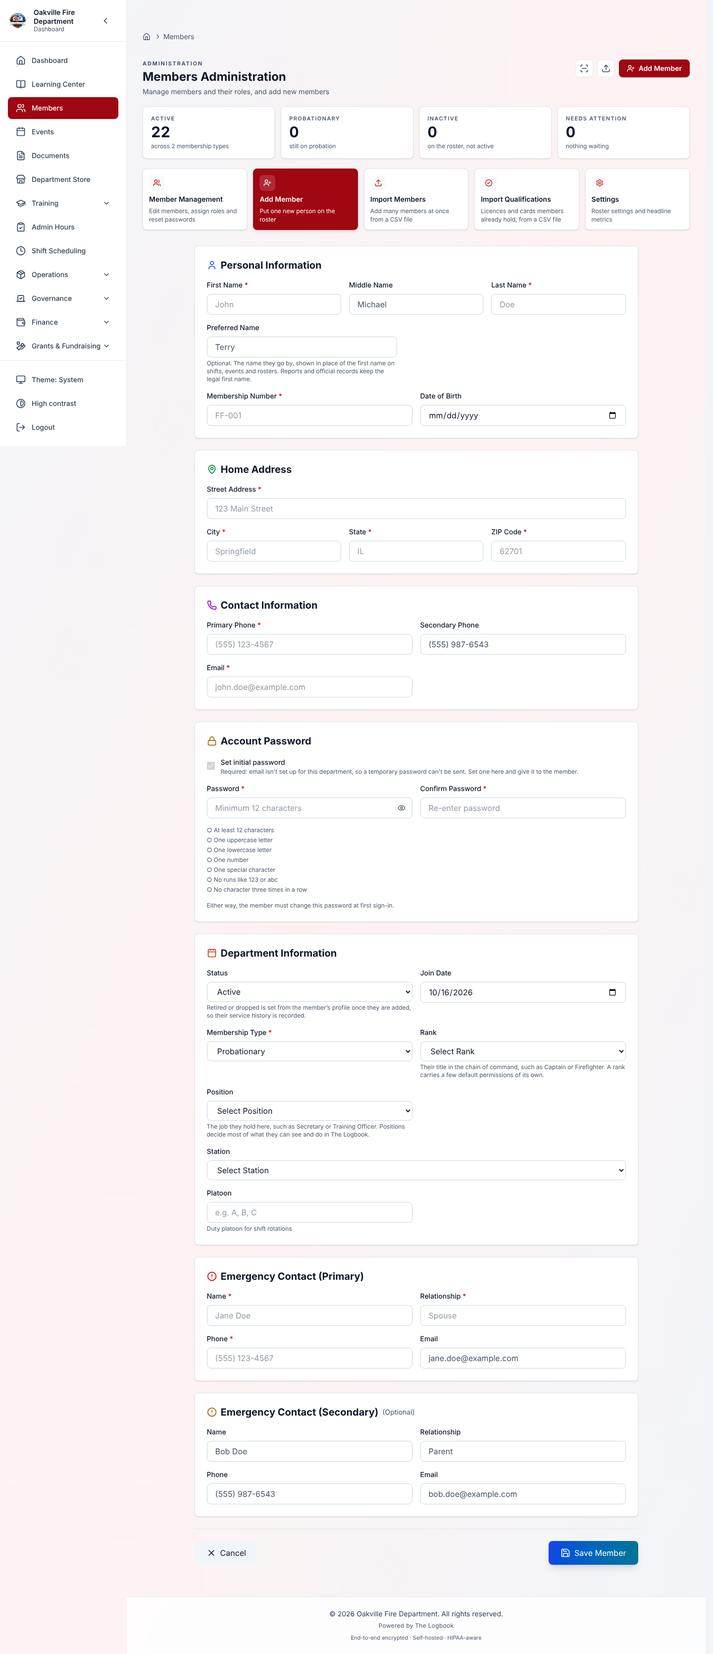
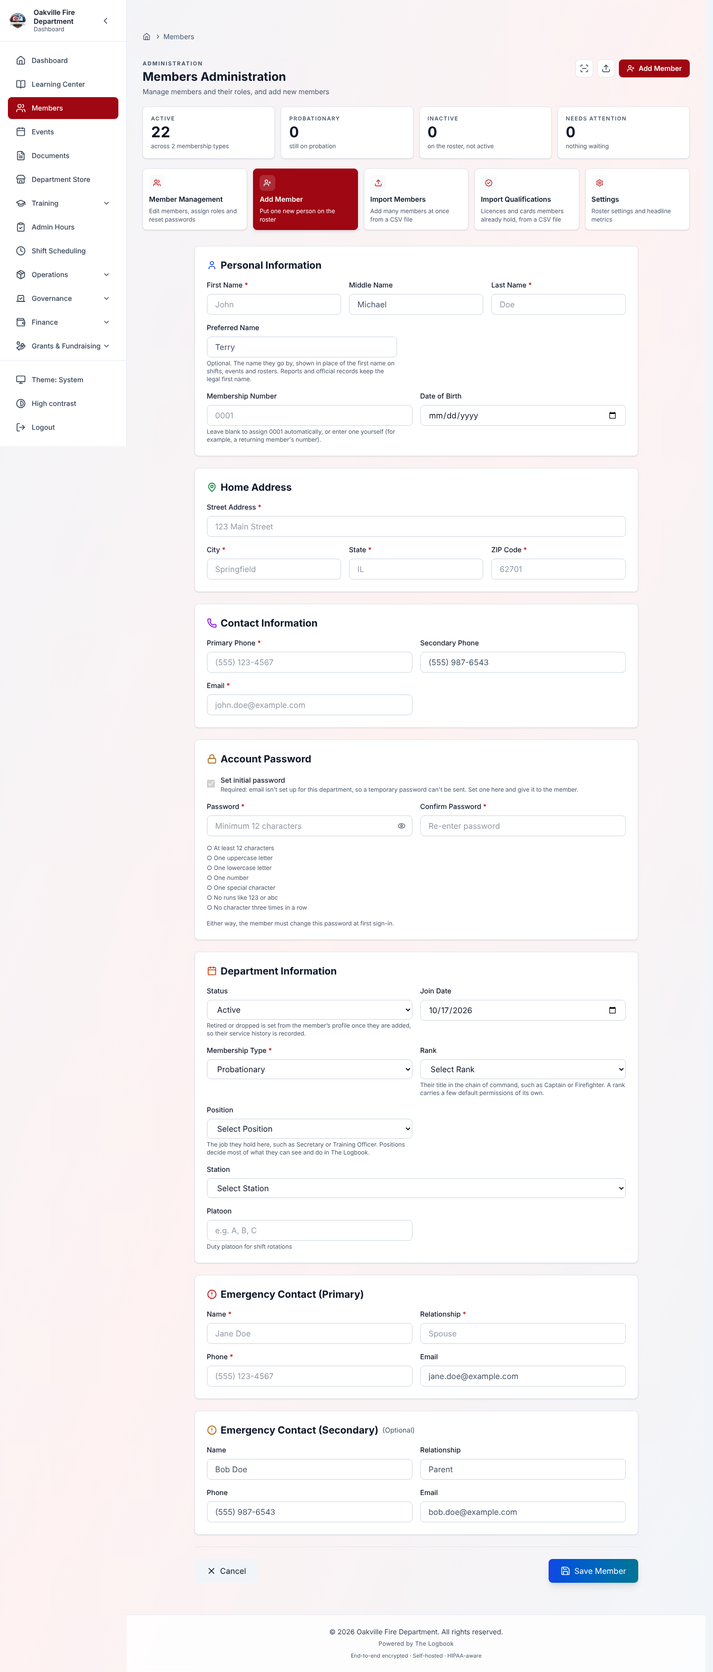
Fill guide 01's screenshot placeholders and re-shoot three images
All ten open placeholders in the membership guide are filled (01-42 to
01-52; 01-45 placed by hand beside 01-44, since one marker asked for
both frames). 01-05, 01-08 and 01-19 are re-shot to show what their
currency rows asked: a real next membership number, two edits on one
day, and Training Requirements ticked alone. 01-40's alt text names the
Rank column.

SCREENSHOT_CURRENCY.md marks the guide 01 rows these resolve as CURRENT
in place, records the 2026-10-16 captures that already satisfied their
rows, and notes the one partial fill: 01-51 leaves out Last day of
previous service, which only a member with no recorded stints is asked
and the app cannot produce for a member it dropped.

Claude-Session: https://claude.ai/code/session_01BZV8sgzbwGzZNz8nqZAgnA

diff --git a/docs/training/SCREENSHOT_CURRENCY.md b/docs/training/SCREENSHOT_CURRENCY.md
@@ -52,6 +52,38 @@ Rows elsewhere in this file that these resolve are marked **CURRENT**
 | Setup wizard step 7 (IT & Backup Contacts) and the apparatus seat chips | **NOT POSSIBLE** on the shared stack | Both need the wizard run against an empty database (`wizard-walk.mjs`), which means dropping and re-bootstrapping the demo database the other batches capture from. Placeholders left open |
 | Organization profile with the Timezone select open | **NOT POSSIBLE** as described | The timezone is a native `<select>`; an open native dropdown is drawn by the browser outside the page and never appears in a screenshot. The closed field is already in `08-02-organization-settings`. Placeholder left open |
 
+## Guide 01 re-shot or added 2026-10-17
+
+Every image the membership guide embeds was re-captured on 2026-10-16. This
+pass checked those against the rows queued for them, re-shot the three that
+still missed what was asked, and filled all ten open placeholders. Rows
+elsewhere in this file that these resolve are marked **CURRENT** 2026-10-17 in
+place; rows in tables without a disposition column (the placeholder lists, the
+Preferred Name and #2857 lists) are resolved here.
+
+| Image | Disposition | Notes |
+| ----- | ----------- | ----- |
+| `01-05-add-member-form` (re-shot) | **CURRENT** 2026-10-17 | Auto-numbering switched on for the shot and restored afterwards, so the hint reads "Leave blank to assign 0001 automatically". The pattern's own sequence starts at 0001 because the demo's numbers were typed by hand. Status (Active, Inactive, On Leave), Preferred Name and the rank and position help lines are in frame |
+| `01-08-member-audit-history` (re-shot) | **CURRENT** 2026-10-17 | `seed_guide01_member_states` gives Callum Frazier a station edit and a platoon edit on the same day, each saving the value he already holds, so two entries share a date with different times beside the earlier rank change |
+| `01-19-create-waiver` (re-shot) | **CURRENT** 2026-10-17 | Only Training Requirements ticked, with "Creates a standalone training waiver without a leave of absence" |
+| `01-01`, `01-06`, `01-07`, `01-10`, `01-11`, `01-22`, `01-23`, `01-26`, `01-29`, `01-33`, `01-40`, `01-41` | **CURRENT** 2026-10-17 (checked) | The 2026-10-16 captures already show what their rows ask: Rank and Member # columns, Advance/Hold/Reject Selected (three applicants ticked, not two), both Applies To boxes ticked, Active badges on kanban cards, My Account, "Send welcome emails now" with the Unavailable note. `01-40`'s alt text now names the Rank column. `01-05` and `01-07` show Preferred Name |
+| `01-42-archived-member-row` | **CURRENT** 2026-10-17 | New. The Members table on Archived with the Reactivate icon |
+| `01-43-print-id-cards` | **CURRENT** 2026-10-17 | New. Front and back is picked (never saved), because Save as department layout replaces the "Department layout" note only when the choices differ from the saved layout |
+| `01-44-member-id-card`, `01-45-reissue-badge-confirm` | **CURRENT** 2026-10-17 | New. Nadia Belhaj's card; the confirmation is closed with Keep current badge. One placeholder asked for both, so `01-45` was placed by hand |
+| `01-46-add-member-password-no-email` | **CURRENT** 2026-10-17 | New. The demo backend has no email configured, so this is the live page |
+| `01-47-membership-id-fiscal-year` | **CURRENT** 2026-10-17 | New. Same state as `08-88`, written through the API and restored afterwards |
+| `01-48-reset-password-rules` | **CURRENT** 2026-10-17 | New. "Abcdefgh1234!" typed into the masked field; never submitted |
+| `01-49-anonymize-member` | **CURRENT** 2026-10-17 | New. Never typed or confirmed |
+| `01-50-status-page-stage` | **CURRENT** 2026-10-17 | New. Add Stage with Enable Status Page and a welcome line; never saved |
+| `01-51-rejoin-status-dialog` | **CURRENT** 2026-10-17, in part | New. Earlier service (department default marked) and Return date. **Last day of previous service** is not in frame: it is asked only for a member with no recorded stints, and a member dropped through the app always has one. Clearing it leaves the estimate reading the day of the drop, which no real member shows, so that state was not manufactured. Never submitted |
+| `01-52-service-history-restart` | **CURRENT** 2026-10-17 | New. Credited and prior service tiles, the 2014–2019 stint marked Dropped (voluntary) and Not counted, and the current stint |
+| `01-02-member-profile`, `01-27-stage-type-picker`, `01-28-stage-email-config` | **Not checked** | Their rows stay open |
+
+The former members in `01-42`, `01-49`, `01-51` and `01-52` exist only for one
+shot. Each is created, taken through the real drop, archive and rejoin
+endpoints, pictured, and permanently deleted afterwards, so the roster count
+every other guide pictures stays at 22.
+
 ## Queued by the October 15 – 16 documentation pass
 
 Nothing was captured by this pass. The prospective-members set (`15-*`,
@@ -462,14 +494,14 @@ unchanged.
 
 | Image | Disposition | Why |
 | ----- | ----------- | --- |
-| `01-01-member-directory.png` | **REPLACE** | The table gained a **Rank** column between the name and **Member #**. Re-shoot as an officer so **Member #** is present, with at least one member whose rank is set |
+| `01-01-member-directory.png` | **CURRENT** 2026-10-17 (checked) | The table gained a **Rank** column between the name and **Member #**. Re-shoot as an officer so **Member #** is present, with at least one member whose rank is set |
 | `01-02-member-profile.png` | **REPLACE** | Assigned Inventory is absent for a viewer without permission to manage equipment. Caption the capturing account's grants — the page differs by viewer |
-| `01-05-add-member-form.png` | **REPLACE** | One **Membership Number** field whose hint reads "Leave blank to assign … automatically" (the separate Membership ID box is gone); **Preferred Contact** is gone and **Status** offers Active, Inactive and On Leave; **Rank** and **Position** carry help lines; with **Set initial password** ticked a rules checklist sits under the password fields. Shoot with auto-numbering on |
-| `01-08-member-audit-history.png` | **REPLACE** | Each entry shows the time beside the date. Re-shoot filtered to profile updates, on a member with two edits on the same day |
-| `01-40-member-directory-member.png` | **CHECK** | Alt text says "name, member number and status only"; the member view also has a **Rank** column, and **Member #** is hidden until someone in the department is numbered |
-| `01-26-print-applicant-badges.png` | **REPLACE** | Bulk buttons read **Advance Selected**, **Hold Selected**, **Reject Selected**. Re-shoot the bar with two applicants selected (alt text still says "Advance All") |
-| `01-11-create-waiver.png` | **REPLACE** | **Applies To** has two checkboxes — **Training Requirements** and **Meeting Attendance & Shift Requirements**. Re-shoot with both ticked, so the line under them reads "Creates a leave of absence that automatically generates a training waiver" |
-| `01-19-create-waiver.png` | **REPLACE** | Same change as `01-11`. Re-shoot with only **Training Requirements** ticked, showing "Creates a standalone training waiver without a leave of absence" |
+| `01-05-add-member-form.png` | **CURRENT** 2026-10-17 (re-shot) | One **Membership Number** field whose hint reads "Leave blank to assign … automatically" (the separate Membership ID box is gone); **Preferred Contact** is gone and **Status** offers Active, Inactive and On Leave; **Rank** and **Position** carry help lines; with **Set initial password** ticked a rules checklist sits under the password fields. Shoot with auto-numbering on |
+| `01-08-member-audit-history.png` | **CURRENT** 2026-10-17 (re-shot) | Each entry shows the time beside the date. Re-shoot filtered to profile updates, on a member with two edits on the same day |
+| `01-40-member-directory-member.png` | **CURRENT** 2026-10-17 (alt text reworded) | Alt text says "name, member number and status only"; the member view also has a **Rank** column, and **Member #** is hidden until someone in the department is numbered |
+| `01-26-print-applicant-badges.png` | **CURRENT** 2026-10-17 (checked) | Bulk buttons read **Advance Selected**, **Hold Selected**, **Reject Selected**. Re-shoot the bar with two applicants selected (alt text still says "Advance All") |
+| `01-11-create-waiver.png` | **CURRENT** 2026-10-17 (checked) | **Applies To** has two checkboxes — **Training Requirements** and **Meeting Attendance & Shift Requirements**. Re-shoot with both ticked, so the line under them reads "Creates a leave of absence that automatically generates a training waiver" |
+| `01-19-create-waiver.png` | **CURRENT** 2026-10-17 (re-shot) | Same change as `01-11`. Re-shoot with only **Training Requirements** ticked, showing "Creates a standalone training waiver without a leave of absence" |
 | `19-37-member-id-cards.png` | **CHECK** | The frame shows a card in a "revoked" state, but the ID Cards panel offers no Revoke action (Suspend, Lost, Reactivate, delete). Confirm what the frame shows, or re-shoot with a suspended card |
 | Applicant conversion dialog; administrative member's ID card | **CHECK** | Both now show **Member class** (the conversion dialog asks for **Member class** and **Starting status**; an administrative member's card shows **Member Class** where others show **Rank**) |
 
@@ -669,7 +701,7 @@ client secret; use a throwaway demo client.
 | `03-*` swap request dialog and Requests tab | **CHECK** | Open swaps are picked up, not officer-approved |
 | `03-*` close-out wizard step 2 | **REPLACE** | Gained the shared-calls picker |
 | `14-*` Results tab, Cast Vote tab and Send Ballot Emails shots | **REPLACE** | One ballot model; results released on close; revised mark |
-| `01-*` Members page as a non-manager | **CHECK** | Directory hides archived members and opens on Active |
+| `01-*` Members page as a non-manager | **CURRENT** 2026-10-17 (checked `01-40`) | Directory hides archived members and opens on Active |
 | `02-*` Compliance Matrix, Shift Compliance and program enrollment progress | **CHECK** | Shift counts and linked requirements now read shift attendance / live compliance |
 | `13-*` Add Record dialog | **REPLACE** | Member/Prospect picker |
 
@@ -721,7 +753,7 @@ grades. Never capture a real badge code; use a throwaway demo member.
 | `03-14-scheduling-reports` | **REPLACE** | Shift Compliance cards are **Requirement Checks**, **Checks Met**, **Checks Not Met** (were Total Members, Compliant, Non-Compliant) |
 | `03-67-swap-request-dialog`, `03-11-swap-requests-tab` | **REPLACE** | Exchange With a Member picker; exchange cards name the other member |
 | `03-60-dashboard-my-shifts`, `00-04-dashboard-overview` | **CHECK** | Open slots the member cannot take read "Not eligible" instead of Sign Up |
-| `01-23-print-member-badges`, `19-37-member-id-cards` | **CHECK** | Badge now encodes the server badge code; Print Badges needs `members.manage` or `members.manage_id_cards` |
+| `01-23-print-member-badges`, `19-37-member-id-cards` | **CHECK** (`01-23` **CURRENT** 2026-10-17: the selection bar, no badge in frame; `19-37` not checked) | Badge now encodes the server badge code; Print Badges needs `members.manage` or `members.manage_id_cards` |
 | `15-10-pipeline-settings`, `15-14-applicant-drawer-overview` | **CHECK** | Automatic Transfer card; checklist items as tickboxes in the drawer |
 | `08-11-error-monitor` | **CHECK** | Rows from scheduled tasks carry the source **Scheduled task** |
 | `05-01-inventory-items`, `05-25-admin-hub`, `05-60-admin-hub-groups` | **REPLACE at phone width** | Below 640px the nine Items filters sit behind a **Filters** toggle; eight admin pages lost their doubled side padding; hub metric labels wrap to two lines |
@@ -870,18 +902,18 @@ A second reading of PRs #2651–#2846 checked each guide's screens against the c
 | `00-19-change-password` | **REPLACE** (also queued below) | Shot 2026-09-25; the Password section's checklist is now the seven-rule list (12 characters, no runs, no triple repeats) shown before typing, and the page title reads My Account (was User Settings) | #2759, #2807 |
 | `00-20-member-dashboard` | **REPLACE** | Shot 2026-09-25; Log Training subtitle changed; Next 30 Days event rows past their RSVP deadline show Open instead of Going / Can't; My Updates may stack | #2807, #2828, #2775 |
 | `00-22-notification-card-expanded` | **REPLACE** | Shot 2026-09-25 full-page; inbox subtitle changed to 'Your in-app notifications. Pinned ones stay at the top.' and same-category rows now stack. The manifest prepare step clicks the first aria-expanded=false button in the first div.card containing 'New Shift Assignment', which may now be a stack header — check the prepare step before re-capturing | #2791, #2775 |
-| `01-01-member-directory` | **REPLACE** (also queued below) | Closed status select displays its selected option, now 'All Statuses' (was 'All Status'); privacy notice reworded | #2784, #2669 |
-| `01-05-add-member-form` | **REPLACE** (also queued below) | Status and Preferred Contact selects removed, separate Membership ID override box removed, Membership Number loses its asterisk and shows next-number placeholder/hint under auto-generation, Set initial password hint changed, subtitle 'Add someone to the roster' | #2759, #2819, #2823, #2751, #2784 |
-| `01-06-import-members` | **REPLACE** | Subtitle now 'Add many members at once from a spreadsheet' and drop zone 'Choose a CSV file to upload' | #2784 |
-| `01-07-admin-member-edit` | **REPLACE** (also queued below) | Back link now 'Back to Members Administration', email help text and compliance-exemption helper reworded | #2784, #2764 |
-| `01-08-member-audit-history` | **REPLACE** (also queued below) | Entries now show date and time; also did not run in the 2026-09-25 sweep (filter rendered no events) — reseed audit events first | #2764, #2728 |
-| `01-11-create-waiver` | **REPLACE** (also queued below) | Same Create Waiver tab as 01-19: Applies To changed to two boxes, subtitle changed, member picker shows rank names | #2765, #2784 |
-| `01-19-create-waiver` | **REPLACE** (also queued below) | Applies To now shows two checkboxes (Training Requirements; Meeting Attendance & Shift Requirements) instead of three; page subtitle changed | #2765, #2784 |
-| `01-22-member-lifecycle` | **REPLACE** | Member Management tab heading changed to 'Member Management' with new subtitle; filter 'All Statuses'; hub description changed | #2784 |
-| `01-26-print-applicant-badges` | **REPLACE** (also queued below) | Bulk bar labels are now Advance Selected / Hold Selected / Reject Selected; manifest alt (manifest.mjs ~5838) still says 'Advance All' — the guide's alt was updated to 'Advance Selected' | #2783, #2653 |
-| `01-33-import-review-rejected-rows` | **REPLACE** | Welcome-email option now 'Send welcome emails now' with temporary-password wording (and an Unavailable note when email is off); button pluralisation | #2751, #2759 |
-| `01-40-member-directory-member` | **REPLACE** (also queued below) | As an ordinary member with emails hidden the search placeholder now reads 'Search by name or membership number...' | #2759 |
-| `01-41-profile-visibility` | **REPLACE** | Full-page /account: title now 'My Account' and Security sidebar description changed | #2807, #2759 |
+| `01-01-member-directory` | **CURRENT** 2026-10-17 (checked) | Closed status select displays its selected option, now 'All Statuses' (was 'All Status'); privacy notice reworded | #2784, #2669 |
+| `01-05-add-member-form` | **CURRENT** 2026-10-17 (re-shot) | Status and Preferred Contact selects removed, separate Membership ID override box removed, Membership Number loses its asterisk and shows next-number placeholder/hint under auto-generation, Set initial password hint changed, subtitle 'Add someone to the roster' | #2759, #2819, #2823, #2751, #2784 |
+| `01-06-import-members` | **CURRENT** 2026-10-17 (checked) | Subtitle now 'Add many members at once from a spreadsheet' and drop zone 'Choose a CSV file to upload' | #2784 |
+| `01-07-admin-member-edit` | **CURRENT** 2026-10-17 (checked) | Back link now 'Back to Members Administration', email help text and compliance-exemption helper reworded | #2784, #2764 |
+| `01-08-member-audit-history` | **CURRENT** 2026-10-17 (re-shot) | Entries now show date and time; also did not run in the 2026-09-25 sweep (filter rendered no events) — reseed audit events first | #2764, #2728 |
+| `01-11-create-waiver` | **CURRENT** 2026-10-17 (checked) | Same Create Waiver tab as 01-19: Applies To changed to two boxes, subtitle changed, member picker shows rank names | #2765, #2784 |
+| `01-19-create-waiver` | **CURRENT** 2026-10-17 (re-shot) | Applies To now shows two checkboxes (Training Requirements; Meeting Attendance & Shift Requirements) instead of three; page subtitle changed | #2765, #2784 |
+| `01-22-member-lifecycle` | **CURRENT** 2026-10-17 (checked) | Member Management tab heading changed to 'Member Management' with new subtitle; filter 'All Statuses'; hub description changed | #2784 |
+| `01-26-print-applicant-badges` | **CURRENT** 2026-10-17 (checked) | Bulk bar labels are now Advance Selected / Hold Selected / Reject Selected; manifest alt (manifest.mjs ~5838) still says 'Advance All' — the guide's alt was updated to 'Advance Selected' | #2783, #2653 |
+| `01-33-import-review-rejected-rows` | **CURRENT** 2026-10-17 (checked) | Welcome-email option now 'Send welcome emails now' with temporary-password wording (and an Unavailable note when email is off); button pluralisation | #2751, #2759 |
+| `01-40-member-directory-member` | **CURRENT** 2026-10-17 (checked) | As an ordinary member with emails hidden the search placeholder now reads 'Search by name or membership number...' | #2759 |
+| `01-41-profile-visibility` | **CURRENT** 2026-10-17 (checked) | Full-page /account: title now 'My Account' and Security sidebar description changed | #2807, #2759 |
 | `02-01-my-training` | **REPLACE** (also queued below) | The subtitle was rewritten and the 'Requirements' stat is now 'Required Training' with an 'X of Y requirements met' hint. The Pipeline Progress card now carries the program name. | #2827, #2788 |
 | `02-100-checklist-steps-editor` | **REPLACE** | The manifest prepare clicks the button named 'Edit requirement', which is now 'Edit <requirement name>', so re-capture times out until the selector is updated. The pictured UI is unchanged. | #2788 |
 | `02-17-officer-dashboard` | **REPLACE** (also queued below) | Subtitle changed to 'Compliance, expiring certifications, hours, and what needs your attention'. | #2777 |
@@ -1001,10 +1033,10 @@ A second reading of PRs #2651–#2846 checked each guide's screens against the c
 | `00-23-login-two-factor` | **CHECK** | Only the recovery-code placeholder changed, visible after 'Use a recovery code'; the pictured 6-digit state is likely unchanged | |
 | `00-26-sidebar-officer-operations` | **CHECK** | Tall viewport, probably no overflow; confirm no scroll pill | |
 | `01-02-member-profile` | **CHECK** | Recaptured 2026-09-25 with Service History card; inventory panel gained empty state 'No equipment is assigned to this member.' (#2784) | |
-| `01-10-prospective-pipeline` | **CHECK** | Kanban card status badges now read 'Active'/'On Hold' instead of raw values | |
+| `01-10-prospective-pipeline` | **CURRENT** 2026-10-17 (checked) | Kanban card status badges now read 'Active'/'On Hold' instead of raw values | |
 | `01-27-stage-type-picker` | **CHECK** | Manual Approval tile description now 'A pipeline manager approves the applicant before they advance.' — visible if the tile text is in frame | |
 | `01-28-stage-email-config` | **CHECK** | Application Tracker Link hint reworded and email preview restyled; probably invisible if the section is unticked and Show Preview collapsed | |
-| `01-29-status-change-modal` | **CHECK** | Archived removed from New Status and fields labelled; captured closed on an active member so likely unchanged | |
+| `01-29-status-change-modal` | **CURRENT** 2026-10-17 (checked) | Archived removed from New Status and fields labelled; captured closed on an active member so likely unchanged | |
 | `02-04-course-library` | **CHECK** | Subtitle now 'The classes your department runs or recognizes (N courses)'. | |
 | `02-102-shift-report-crew-form` | **CHECK** | Reached via view=create; the strip no longer carries a 'New' segment. | |
 | `02-106-course-library-member` | **CHECK** | Same Course Library subtitle change. | |
@@ -1300,13 +1332,13 @@ and this file cannot disagree.
 
 | Disposition | Image | What the new frame must show |
 | --- | --- | --- |
-| **REPLACE** | `01-01-member-directory.png` | The table gained a **Rank** column between the name and **Member #** (2026-09-30). Re-shoot as an officer so **Member #** is present, with at least one member whose rank is set. |
-| **REPLACE** | `01-05-add-member-form.png` | Four visible changes since the frame was taken: one **Membership Number** field whose hint reads "Leave blank to assign … automatically" (the separate Membership ID override box is gone); the **Status** and **Preferred Contact** controls are gone from Department Information; **Rank** and **Position** each carry a help line under the dropdown; and with **Set initial password** ticked, a password-rules checklist sits under the two password fields. Shoot on a department with auto-numbering on, so the hint shows a real next number. |
-| **REPLACE** | `01-08-member-audit-history.png` | Each entry now shows the time beside the date (2026-09-28). Re-shoot filtered to profile updates, on a member with at least two edits on the same day so the times differ. |
-| **REPLACE** | `01-26-print-applicant-badges.png` | The bulk buttons were renamed on 2026-09-29 — **Advance Selected**, **Hold Selected**, **Reject Selected** (they act on the selection, not on everyone). Re-shoot the same bar with two applicants selected. |
-| **REPLACE** | `01-11-create-waiver.png` | **Applies To** now holds two checkboxes — **Training Requirements** and **Meeting Attendance & Shift Requirements** — where it held three (2026-09-28). Re-shoot the Create Waiver tab with both ticked, so the line under them reads "Creates a leave of absence that automatically generates a training waiver". |
-| **REPLACE** | `01-19-create-waiver.png` | Same change as `01-11`: **Applies To** has two checkboxes, not three. Re-shoot with only **Training Requirements** ticked so the frame differs from `01-11` and shows "Creates a standalone training waiver without a leave of absence". |
-| **NEW** | — | Members Admin → Settings → Membership IDs with numbering and auto-generation on → the **Year and number** preset applied: Number pattern `{YYYY}-{SEQ}`, Minimum digits 3, **Restart the count each year** on, **The year follows** set to **Our fiscal year** starting in July and named by **The year it ends in**, and the line "The next member will be numbered 2027-001." with "Next: 2027-001" in the panel header. |
+| **CURRENT** 2026-10-17 (checked) | `01-01-member-directory.png` | The table gained a **Rank** column between the name and **Member #** (2026-09-30). Re-shoot as an officer so **Member #** is present, with at least one member whose rank is set. |
+| **CURRENT** 2026-10-17 (re-shot) | `01-05-add-member-form.png` | Four visible changes since the frame was taken: one **Membership Number** field whose hint reads "Leave blank to assign … automatically" (the separate Membership ID override box is gone); the **Status** and **Preferred Contact** controls are gone from Department Information; **Rank** and **Position** each carry a help line under the dropdown; and with **Set initial password** ticked, a password-rules checklist sits under the two password fields. Shoot on a department with auto-numbering on, so the hint shows a real next number. |
+| **CURRENT** 2026-10-17 (re-shot) | `01-08-member-audit-history.png` | Each entry now shows the time beside the date (2026-09-28). Re-shoot filtered to profile updates, on a member with at least two edits on the same day so the times differ. |
+| **CURRENT** 2026-10-17 (checked) | `01-26-print-applicant-badges.png` | The bulk buttons were renamed on 2026-09-29 — **Advance Selected**, **Hold Selected**, **Reject Selected** (they act on the selection, not on everyone). Re-shoot the same bar with two applicants selected. |
+| **CURRENT** 2026-10-17 (checked) | `01-11-create-waiver.png` | **Applies To** now holds two checkboxes — **Training Requirements** and **Meeting Attendance & Shift Requirements** — where it held three (2026-09-28). Re-shoot the Create Waiver tab with both ticked, so the line under them reads "Creates a leave of absence that automatically generates a training waiver". |
+| **CURRENT** 2026-10-17 (re-shot) | `01-19-create-waiver.png` | Same change as `01-11`: **Applies To** has two checkboxes, not three. Re-shoot with only **Training Requirements** ticked so the frame differs from `01-11` and shows "Creates a standalone training waiver without a leave of absence". |
+| **CURRENT** 2026-10-17 as `01-47` | — | Members Admin → Settings → Membership IDs with numbering and auto-generation on → the **Year and number** preset applied: Number pattern `{YYYY}-{SEQ}`, Minimum digits 3, **Restart the count each year** on, **The year follows** set to **Our fiscal year** starting in July and named by **The year it ends in**, and the line "The next member will be numbered 2027-001." with "Next: 2027-001" in the panel header. |
 
 ### [02 — training](./02-training.md)
 

diff --git a/docs/training/01-membership.md b/docs/training/01-membership.md
@@ -101,11 +101,9 @@ includes archived members, because those are the records officers look after.
 
 ![Member directory listing members with their status and contact columns](./images/01-01-member-directory.png)
 
-![The Member Directory as an ordinary member: name, member number and status only, with no usernames, no hire-date column, no Actions column and no selection checkboxes](./images/01-40-member-directory-member.png)
+![The Member Directory as an ordinary member: name, rank, member number and status only, with no usernames, no hire-date column, no Actions column and no selection checkboxes](./images/01-40-member-directory-member.png)
 
-<!-- Screenshot needed:
-_[As an administrator (members.manage) at /members on a desktop width: the Members table with the status filter set to Archived, showing at least one archived member's row with the green Reactivate icon beside Edit and Delete in Actions. Needs an archived member in the demo seed. Do not open the Reactivate dialog.]_
--->
+![The Members table filtered to Archived: a former member's row with the green Reactivate icon beside Edit and Delete](./images/01-42-archived-member-row.png)
 
 **Member statuses:**
 
@@ -235,9 +233,7 @@ Organization settings.
 Print one **Test card** first to check the alignment. Cards print in black
 only, so they look the same on a black-only ribbon as on a colour one.
 
-<!-- Screenshot needed:
-_[Administrator (members.manage) at /members/print-id-cards with two demo members selected: the Orientation, Sides and Code options, the Save as department layout button, and the "Accept old badges" switch at the bottom. Check the route in the page before capturing.]_
--->
+![Print ID Cards for two members with Front and back chosen: the Orientation, Sides and Code choices, Test card and Save as department layout, the duplex printing note, and the Accept old badges switch at the bottom](./images/01-43-print-id-cards.png)
 
 ### Badge Codes
 
@@ -270,9 +266,9 @@ codes scan.
 Inventory checkout always refuses a member whose account is not active,
 whichever badge they show.
 
-<!-- Screenshot needed:
-_[Administrator at /members/<demo member id>/id-card: the badge with its QR code, showing the membership number as text, and the "Reissue badge" button; a second frame with the "Reissue this badge?" confirmation open. Demo member only; do not confirm.]_
--->
+![A member's digital ID card: membership number as text, the badge code under its barcode, the QR code, and the Print ID Card and Reissue badge buttons](./images/01-44-member-id-card.png)
+
+![The Reissue this badge? confirmation: every printed badge and the phone card stop scanning, with Keep current badge and Reissue badge](./images/01-45-reissue-badge-confirm.png)
 
 ---
 
@@ -519,9 +515,7 @@ department, so a temporary password can't be sent. Set one here and give it
 to the member." The Logbook also refuses any new account that asks for a
 welcome email while email cannot be sent.
 
-<!-- Screenshot needed:
-_[As an administrator (users.create + members.manage) on an install with email not configured, at /members/admin?tab=add: the Account Password block with Set initial password ticked and disabled and the "Required: email isn't set up for this department…" hint visible. Leave the password fields empty; do not capture any typed password.]_
--->
+![Add Member's Account Password block on a department without email: Set initial password ticked and locked, the note saying why, and the empty password fields with their rules](./images/01-46-add-member-password-no-email.png)
 
 ### The Membership Number on Add Member
 
@@ -639,9 +633,7 @@ be longer than 50 characters is refused straight away. If you take the year
 out of a pattern, the yearly restart turns off in the same save. If nobody
 changes these settings, numbers look like `FD-0001`.
 
-<!-- Screenshot needed:
-_[Members Admin → Settings → Membership IDs with numbering and auto-generation on → the **Year and number** preset applied: Number pattern `{YYYY}-{SEQ}`, Minimum digits 3, **Restart the count each year** on, **The year follows** set to **Our fiscal year** starting in July and named by **The year it ends in**, and the line "The next member will be numbered 2027-001." with "Next: 2027-001" in the panel header.]_
--->
+![Membership ID Number settings with the Year and number preset: pattern {YYYY}-{SEQ}, three digits, the count restarting each year on a fiscal year from July named by the year it ends in, and the next member numbered 2027-001](./images/01-47-membership-id-fiscal-year.png)
 
 #### Numbers Are Never Reissued
 
@@ -921,9 +913,7 @@ name or relationship is pointed out on the page before you save.
 > access every member needs, so it can only be removed from an archived
 > member."
 
-<!-- Screenshot needed:
-_[As an administrator (members.manage) at /members/admin, Member Management tab: a demo member's Reset Password dialog with a weak password typed (for example Abcdefgh1234!) so the Password rules list shows "No runs like 123 or abc" unmet. Never submit, and never capture a real password.]_
--->
+![Reset Password for a member with a weak password typed (masked): the Password rules list ticks the length and character rules and leaves No runs like 123 or abc unmet](./images/01-48-reset-password-rules.png)
 
 ---
 
@@ -1065,9 +1055,7 @@ What is kept stays linked to a placeholder named "Former Member".
 > roster. Like a deactivated member, they no longer appear anywhere in the app
 > and cannot be reactivated.
 
-<!-- Screenshot needed:
-_[As an administrator (members.manage) at /members/:userId for a Dropped or Archived demo member: the Anonymize Member dialog showing the warning sentence, the red Removed panel, the Kept panel with the "Former Member" note, the empty "Type <name> to confirm" field and the disabled Anonymize button. Clip to the dialog. Never type the name or confirm — the action is irreversible and would remove the demo member. Needs a dropped or archived member in the seed.]_
--->
+![The Anonymize Member dialog for an archived former member: the warning, what is removed, what is kept under Former Member, and the typed confirmation with Anonymize still disabled](./images/01-49-anonymize-member.png)
 
 ## Prospective Members Pipeline
 
@@ -1417,9 +1405,7 @@ you might show the tracker only after someone passes their interview.
 | The stage is marked as the final stage                                        | It never completes itself, because completing the final stage is the department's approval                                                                             |
 | The applicant started on the stage, was placed on it, or was moved back to it | The on/off setting still applies, but no link email is sent and the stage waits for you to complete it. Only arriving by finishing the stage before it sends the email |
 
-<!-- Screenshot needed:
-_[As a Membership Coordinator (prospective_members.manage) at /prospective-members/settings: a pipeline selected and Add Stage open with the Enable Status Page tile chosen, showing the "Enables the public status page" panel with its override sentence, "Enable public status page at this stage" ticked, and "Message in the link email (optional)" filled with a sample welcome line.]_
--->
+![Add Stage with Enable Status Page chosen: the panel saying it enables the public status page and overrides the pipeline setting, Enable public status page at this stage ticked, and a welcome line in the link email message](./images/01-50-status-page-stage.png)
 
 ### Pipeline Configuration
 
@@ -1721,9 +1707,7 @@ See [Former Members Who Rejoin](#former-members-who-rejoin).
 
 ![The Change Member Status dialog with a drop status selected and its property-return note](./images/01-29-status-change-modal.png)
 
-<!-- Screenshot needed:
-_[As an administrator (members.manage) at /members/:userId for a Dropped (Voluntary) demo member: the Change Member Status dialog with Active selected, showing the Earlier service radios (department default marked), Return date and Last day of previous service. Never press Update Status. Needs a dropped member in the seed.]_
--->
+![Change Member Status for a member who left voluntarily, with Active selected: Earlier service with its recorded length, Continue prior service (marked as the department default) and Restart at zero, and the Return date](./images/01-51-rejoin-status-dialog.png)
 
 ### Undoing a Drop Made by Mistake
 
@@ -2139,9 +2123,7 @@ The whole list is saved at once, and it must make sense:
 > on file. Their service still counts from their hire date, including the time
 > away. Fix it by editing their Service History.
 
-<!-- Screenshot needed:
-_[As an administrator (members.manage) at /members/:userId for a demo member who rejoined under Restart at zero: the Service History card in its read view, showing the Credited service and Prior service (not counted) tiles and two stints — an earlier one tagged "Dropped (voluntary)" and "Not counted", and a current one ending "present". Needs a seeded rejoin with stints. Clip to the card.]_
--->
+![The Service History card of a member who rejoined under Restart at zero: Credited service and Prior service (not counted) tiles, an earlier stint marked Dropped (voluntary) and Not counted, and the current stint ending present](./images/01-52-service-history-restart.png)
 
 ---
 

diff --git a/docs/training/SCREENSHOT_STATUS.md b/docs/training/SCREENSHOT_STATUS.md
@@ -9,12 +9,12 @@ image still matches the application is tracked by hand in
 [SCREENSHOT_CURRENCY.md](./SCREENSHOT_CURRENCY.md) — this file is
 regenerated wholesale, so that audit cannot live here.
 
-**613 of 755 placeholders filled** (142 remaining).
+**624 of 756 placeholders filled** (132 remaining).
 
 | Guide | Captured | Remaining |
 |-------|---------:|----------:|
 | [00-getting-started.md](./00-getting-started.md) | 20 | 5 |
-| [01-membership.md](./01-membership.md) | 31 | 10 |
+| [01-membership.md](./01-membership.md) | 42 | 0 |
 | [02-training.md](./02-training.md) | 74 | 17 |
 | [03-scheduling.md](./03-scheduling.md) | 90 | 19 |
 | [04-events-meetings.md](./04-events-meetings.md) | 40 | 12 |
@@ -32,5 +32,5 @@ regenerated wholesale, so that audit cannot live here.
 | [16-integrations.md](./16-integrations.md) | 14 | 2 |
 | [17-privacy-data-rights.md](./17-privacy-data-rights.md) | 6 | 1 |
 | [18-storefront.md](./18-storefront.md) | 7 | 0 |
-| **Total** | **613** | **142** |
+| **Total** | **624** | **132** |
 
